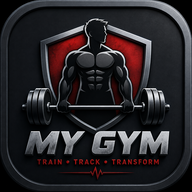
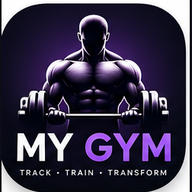
Add files via upload

diff --git a/styles.css b/styles.css
@@ -1798,3 +1798,218 @@ input,textarea,select{background:var(--input)!important;color:var(--text)!import
   background:#dff7ed !important;
   border-color:#9de3ca !important;
 }
+
+/* ===== SEPT 2026 GLOBAL LIGHT MODE CONTRAST FIX v17 =====
+   Intentionally broad: prevents white/transparent dark-theme text from surviving
+   inside light cards on Home, History, Calories, Profile, and Workout screens. */
+:root[data-theme="light"]{
+  color-scheme:light;
+}
+:root[data-theme="light"] .screen:not(#authScreen) .card,
+:root[data-theme="light"] .screen:not(#authScreen) .workout-card,
+:root[data-theme="light"] .screen:not(#authScreen) .exercise-summary-row,
+:root[data-theme="light"] .screen:not(#authScreen) .current-workout-summary,
+:root[data-theme="light"] .screen:not(#authScreen) .current-workout-chip{
+  color:#111827 !important;
+}
+:root[data-theme="light"] .screen:not(#authScreen) .card h1,
+:root[data-theme="light"] .screen:not(#authScreen) .card h2,
+:root[data-theme="light"] .screen:not(#authScreen) .card h3,
+:root[data-theme="light"] .screen:not(#authScreen) .card h4,
+:root[data-theme="light"] .screen:not(#authScreen) .card h5,
+:root[data-theme="light"] .screen:not(#authScreen) .card h6,
+:root[data-theme="light"] .screen:not(#authScreen) .card strong,
+:root[data-theme="light"] .screen:not(#authScreen) .workout-card h4,
+:root[data-theme="light"] .screen:not(#authScreen) .workout-card strong,
+:root[data-theme="light"] .screen:not(#authScreen) .exercise-summary-row strong,
+:root[data-theme="light"] #homeScreen h2,
+:root[data-theme="light"] #homeScreen h3,
+:root[data-theme="light"] #homeScreen h4,
+:root[data-theme="light"] #homeScreen strong{
+  color:#111827 !important;
+  -webkit-text-fill-color:#111827 !important;
+  opacity:1 !important;
+  text-shadow:none !important;
+}
+:root[data-theme="light"] .screen:not(#authScreen) .card p:not(.eyebrow),
+:root[data-theme="light"] .screen:not(#authScreen) .card small,
+:root[data-theme="light"] .screen:not(#authScreen) .card .mini,
+:root[data-theme="light"] .screen:not(#authScreen) .card .muted,
+:root[data-theme="light"] .screen:not(#authScreen) .workout-card .set-summary,
+:root[data-theme="light"] #homeScreen .muted,
+:root[data-theme="light"] #homeScreen .mini{
+  color:#526174 !important;
+  -webkit-text-fill-color:#526174 !important;
+  opacity:1 !important;
+  text-shadow:none !important;
+}
+/* Keep intentionally colored labels/buttons readable after the broad rule above. */
+:root[data-theme="light"] .primary,
+:root[data-theme="light"] .navbtn.active,
+:root[data-theme="light"] .history-tab.active,
+:root[data-theme="light"] .mode.active,
+:root[data-theme="light"] .theme-choice.active,
+:root[data-theme="light"] .progress-period-btn.active,
+:root[data-theme="light"] .pattern-chip:not(.muted-chip),
+:root[data-theme="light"] .calendar-day.workout-day,
+:root[data-theme="light"] .calendar-day.rest-day,
+:root[data-theme="light"] .calendar-day.missed-day{
+  color:#ffffff !important;
+  -webkit-text-fill-color:#ffffff !important;
+}
+:root[data-theme="light"] .finish-whole{
+  color:#06110e !important;
+  -webkit-text-fill-color:#06110e !important;
+}
+:root[data-theme="light"] .eyebrow{
+  color:#6d28d9 !important;
+  -webkit-text-fill-color:#6d28d9 !important;
+  opacity:1 !important;
+}
+:root[data-theme="light"] .pill,
+:root[data-theme="light"] .machine-badge,
+:root[data-theme="light"] .muted-chip{
+  color:#526174 !important;
+  -webkit-text-fill-color:#526174 !important;
+  opacity:1 !important;
+}
+
+/* =========================================================
+   MY GYM REALISTIC UI — V20
+   UI-only redesign. Firestore/data structure is unchanged.
+   ========================================================= */
+:root{
+  --mg-purple:#6d35f2;
+  --mg-purple-2:#8a44ff;
+  --mg-ink:#151426;
+  --mg-muted:#737b90;
+  --mg-surface:#ffffff;
+  --mg-page:#f6f7fb;
+  --mg-line:#e8eaf1;
+  --mg-shadow:0 12px 32px rgba(31,25,63,.08);
+}
+html{-webkit-text-size-adjust:100%;overscroll-behavior-y:none}
+body{background:#080b13}
+button,.round-step,.rep-step,.cardio-step,.mode,.navbtn{touch-action:manipulation;-webkit-user-select:none;user-select:none;-webkit-tap-highlight-color:transparent}
+
+/* New icon + brand */
+.brand{align-items:center}
+.brand-mark{overflow:hidden;padding:0;background:#0b0d16!important;border:1px solid #ffffff1c!important}
+.brand-mark img{width:100%;height:100%;object-fit:cover;display:block;border-radius:inherit}
+.brand-copy strong{font-weight:950;letter-spacing:.06em}
+
+/* Premium cards */
+.card,.auth-card,.modal-card{box-shadow:0 18px 45px rgba(0,0,0,.16)}
+.home-section-title{display:flex;justify-content:space-between;align-items:end;gap:14px;margin:24px 0 12px}
+.home-section-title h3{margin:3px 0 0;font-size:27px;letter-spacing:-.03em}
+.live-dot{display:inline-flex;align-items:center;gap:7px;font-size:11px;font-weight:850;color:#6edec0}
+.live-dot i{width:8px;height:8px;background:#53d7af;border-radius:50%;box-shadow:0 0 0 5px #53d7af14}
+.hero-card{background:linear-gradient(135deg,#6132e8 0%,#823ef4 58%,#9b50ff 100%);border:0;box-shadow:0 20px 45px #7435ef38}
+.hero-card .eyebrow,.hero-card .muted,.hero-card h2{color:white!important}.hero-card .muted{opacity:.82}
+.hero-card .primary{background:white;color:#5c2ad8;box-shadow:0 8px 18px #35116f38}
+.metric{position:relative;overflow:hidden}.metric:after{content:"";position:absolute;width:90px;height:90px;border-radius:50%;right:-35px;top:-30px;background:#783cff10}
+
+/* Realistic body-part cards */
+.category-grid{grid-template-columns:repeat(2,minmax(0,1fr));gap:14px}
+.category{position:relative;min-height:0;padding:0;overflow:hidden;border-radius:22px;background:#111723;border:1px solid #ffffff12;box-shadow:0 14px 30px #0002;transition:.18s ease}
+.category:active{transform:scale(.985)}
+.realistic-body-art{height:170px;overflow:hidden;background:#151823}
+.realistic-body-art img{width:100%;height:100%;object-fit:cover;display:block;transition:transform .25s ease}
+.category:hover .realistic-body-art img{transform:scale(1.025)}
+.category-copy{padding:15px 42px 16px 16px}.category-copy strong{font-size:20px;letter-spacing:-.02em}.category-copy span{display:block;margin-top:3px;color:#8f9aae}
+.category-arrow{position:absolute;right:16px;bottom:20px;width:28px;height:28px;border-radius:50%;display:grid;place-items:center;background:#ffffff0d;color:#ae9cff;font-size:24px}
+
+/* Realistic machine library */
+.exercise-grid{grid-template-columns:repeat(2,minmax(0,1fr));gap:14px}
+.exercise{position:relative;padding:0;overflow:hidden;border-radius:22px;min-height:0;background:#111723;border:1px solid #ffffff12;box-shadow:0 12px 28px #0002}
+.realistic-machine-art{height:165px;background:#f6f6f8;overflow:hidden}
+.realistic-machine-art img{width:100%;height:100%;object-fit:cover;display:block}
+.exercise-info{padding:13px 38px 15px 14px}.exercise-info strong{font-size:15px;line-height:1.15}.exercise-info span{display:block;margin-top:5px;font-size:10px;color:#8d98aa;line-height:1.25}
+.exercise-arrow{position:absolute;right:13px;bottom:17px;font-size:22px;color:#9a86ff}
+.exercise-view-head{margin-bottom:16px;display:flex;align-items:center;gap:15px}.exercise-view-head h2{margin:2px 0;font-size:30px;letter-spacing:-.04em}
+
+/* Active workout: feels like a native fitness app */
+.active-card{max-width:760px;border-radius:28px;padding:18px}
+.active-card>.row{align-items:flex-start}
+.active-card h2{font-size:30px;letter-spacing:-.04em;margin:4px 0}
+.active-exercise-visual{width:100%;height:250px;border-radius:22px;overflow:hidden;background:#f5f5f8;margin:16px 0 18px;border:1px solid #ffffff13;box-shadow:inset 0 0 0 1px #ffffff0a}
+.active-exercise-visual img{width:100%;height:100%;object-fit:contain;display:block;background:#f7f7f9}
+.weight-mode{padding:7px;border-radius:16px}.mode-toggle{width:100%}.mode{min-height:42px}
+.set-row{border-radius:20px!important}
+.round-step,.rep-step,.cardio-step{box-shadow:none!important;border:0!important;background:linear-gradient(145deg,#7640f3,#5c2bd8)!important;color:white!important}
+.round-step:active,.rep-step:active,.cardio-step:active{transform:scale(.92)!important}
+.weight-center,.rep-center,.cardio-center{font-variant-numeric:tabular-nums}
+.finish-exercise{min-height:54px;font-size:16px;border-radius:16px}
+
+/* Sticky active workout bar */
+.workout-top{backdrop-filter:blur(18px);-webkit-backdrop-filter:blur(18px);box-shadow:0 16px 35px #0003}
+.timer{font-variant-numeric:tabular-nums;font-size:14px;font-weight:900}
+.current-workout-summary{border-radius:22px!important}
+.current-workout-chip{border-radius:14px!important}
+
+/* Workout history cards */
+.workout-card{border-radius:23px;padding:18px;box-shadow:0 10px 28px #0001}
+.exercise-summary-row{border-radius:16px;padding:12px 14px}
+.workout-card h4{font-size:18px;letter-spacing:-.02em}
+
+/* Calendar + progress */
+.calendar-card{border-radius:26px}.calendar-day{border-radius:50%;aspect-ratio:1/1;font-weight:800}.calendar-day.workout-day{background:#1f9d67!important;color:white;border-color:#1f9d67!important}.calendar-day.rest-day{background:#4a8fe7!important;color:white;border-color:#4a8fe7!important}.calendar-day.missed-day{background:#e84f61!important;color:white;border-color:#e84f61!important}
+.calendar-day.workout-day:after,.calendar-day.rest-day:after,.calendar-day.missed-day:after{display:none}
+.chart-card,.progress-card{border-radius:22px!important}
+
+/* Bottom navigation: iPhone friendly */
+@media(max-width:650px){
+  .shell{width:100%;padding:12px 14px calc(102px + env(safe-area-inset-bottom));}
+  .topbar{margin-bottom:14px;padding:0 2px}.topbar-badge{display:none}
+  .brand-copy small{display:none}.brand-copy strong{font-size:18px}.brand-mark{width:42px;height:42px}
+  #appView{padding-bottom:4px}
+  .nav{position:fixed!important;left:12px;right:12px;bottom:calc(10px + env(safe-area-inset-bottom));z-index:95;width:auto!important;margin:0!important;padding:8px!important;border-radius:25px!important;background:rgba(255,255,255,.95)!important;border:1px solid #e7e9f0!important;box-shadow:0 14px 45px rgba(29,25,55,.17)!important;backdrop-filter:blur(18px);-webkit-backdrop-filter:blur(18px)}
+  .navbtn{height:58px;border-radius:18px!important;color:#737b90!important;font-size:12px!important;min-width:0!important;position:relative;padding-top:27px!important}
+  .navbtn:before{position:absolute;top:8px;left:50%;transform:translateX(-50%);font-size:18px;line-height:1}
+  .navbtn[data-screen="home"]:before{content:"⌂"}.navbtn[data-screen="history"]:before{content:"▣"}.navbtn[data-screen="calories"]:before{content:"◒"}.navbtn[data-screen="profile"]:before{content:"♙"}
+  .navbtn.active{background:linear-gradient(135deg,#6d35f2,#a23cff)!important;color:white!important;box-shadow:0 8px 20px #7839ee46}
+  .welcome{border-radius:22px;padding:16px}.welcome #logoutBtn{padding:9px 10px;font-size:11px}.profile-avatar-home{width:48px;height:48px}
+  .home-section-title{margin-top:18px}.home-section-title h3{font-size:24px}.live-dot{display:none}
+  .home-grid{grid-template-columns:repeat(3,1fr);gap:9px}.hero-card{grid-column:1/-1;min-height:210px;border-radius:25px}.metric{padding:14px 10px;border-radius:19px}.metric strong{font-size:26px;margin-top:8px}.metric small{font-size:9px}.metric .mini{font-size:9px}
+  .home-insight-grid{grid-template-columns:1fr!important}.daily-quote-card,.pattern-card{border-radius:23px}
+  .category-grid,.exercise-grid{grid-template-columns:repeat(2,minmax(0,1fr));gap:11px}
+  .realistic-body-art{height:145px}.category-copy{padding:12px 34px 13px 13px}.category-copy strong{font-size:17px}.category-copy span{font-size:10px}.category-arrow{right:11px;bottom:14px}
+  .realistic-machine-art{height:145px}.exercise-info strong{font-size:13px}.exercise-info span{font-size:9px}
+  .section-hero{padding:17px!important;border-radius:22px!important}.section-hero h2{font-size:28px!important}
+  .exercise-view-head{position:sticky;top:4px;z-index:30;background:rgba(246,247,251,.92);backdrop-filter:blur(14px);-webkit-backdrop-filter:blur(14px);padding:8px 0 10px;margin-bottom:10px}
+  .active-card{padding:15px;border-radius:24px}.active-card h2{font-size:25px}.active-exercise-visual{height:205px;border-radius:20px}
+  .workout-top{top:6px!important;border-radius:21px!important;padding:12px!important}.workout-top-actions{gap:7px}.finish-whole,.danger{min-height:42px;font-size:11px}
+  .set-row{padding:13px!important}.round-step,.rep-step{min-width:44px;min-height:44px}
+  .workout-card{padding:15px;border-radius:22px}.exercise-summary-row{padding:11px}
+}
+
+/* Light mode — intentionally high contrast everywhere */
+:root[data-theme="light"] body{background:var(--mg-page)!important;color:var(--mg-ink)!important}
+:root[data-theme="light"] .shell{color:var(--mg-ink)!important}
+:root[data-theme="light"] .card,
+:root[data-theme="light"] .auth-card,
+:root[data-theme="light"] .modal-card,
+:root[data-theme="light"] .workout-card,
+:root[data-theme="light"] .exercise-summary-row,
+:root[data-theme="light"] .current-workout-summary,
+:root[data-theme="light"] .current-workout-chip,
+:root[data-theme="light"] .set-row,
+:root[data-theme="light"] .weight-mode,
+:root[data-theme="light"] .selected-day,
+:root[data-theme="light"] .calendar-card{background:#fff!important;color:var(--mg-ink)!important;border-color:var(--mg-line)!important;box-shadow:var(--mg-shadow)!important}
+:root[data-theme="light"] .category,:root[data-theme="light"] .exercise{background:#fff!important;color:var(--mg-ink)!important;border-color:var(--mg-line)!important;box-shadow:var(--mg-shadow)!important}
+:root[data-theme="light"] .category strong,:root[data-theme="light"] .exercise strong,:root[data-theme="light"] .workout-card h4,:root[data-theme="light"] .exercise-summary-row strong,:root[data-theme="light"] .active-card h2,:root[data-theme="light"] h1,:root[data-theme="light"] h2,:root[data-theme="light"] h3,:root[data-theme="light"] h4{color:#171525!important}
+:root[data-theme="light"] .category span,:root[data-theme="light"] .exercise span,:root[data-theme="light"] .set-summary,:root[data-theme="light"] .muted,:root[data-theme="light"] .mini{color:#6e778c!important}
+:root[data-theme="light"] .exercise-summary-row{background:#f8f9fc!important}
+:root[data-theme="light"] .workout-top{background:rgba(255,255,255,.94)!important;color:#171525!important;border-color:#e6e8ef!important;box-shadow:0 14px 35px rgba(32,27,61,.12)!important}
+:root[data-theme="light"] .weight-center,:root[data-theme="light"] .rep-center,:root[data-theme="light"] .cardio-center{background:#f5f6fa!important;color:#171525!important;border-color:#dfe2ea!important;box-shadow:none!important}
+:root[data-theme="light"] input{background:#f7f8fb;color:#171525;border-color:#dfe2ea}
+:root[data-theme="light"] .secondary{background:#f3f4f8!important;color:#29263a!important;border-color:#e1e4ec!important}
+:root[data-theme="light"] .mode-toggle,:root[data-theme="light"] .tabs,:root[data-theme="light"] .history-tabs{background:#f1f2f6!important}
+:root[data-theme="light"] .mode,:root[data-theme="light"] .tab,:root[data-theme="light"] .history-tab{color:#737b8c!important}
+:root[data-theme="light"] .mode.active,:root[data-theme="light"] .tab.active,:root[data-theme="light"] .history-tab.active{background:#fff!important;color:#6330dd!important;box-shadow:0 5px 14px rgba(49,39,86,.09)!important}
+:root[data-theme="light"] .hero-card,:root[data-theme="light"] .hero-card h2,:root[data-theme="light"] .hero-card .muted,:root[data-theme="light"] .hero-card .eyebrow{color:#fff!important}
+:root[data-theme="light"] .category-arrow,:root[data-theme="light"] .exercise-arrow{color:#6d35f2!important}
+:root[data-theme="light"] .active-exercise-visual{border-color:#e6e8ef!important}
+:root[data-theme="light"] .eyebrow{color:#6d35f2!important}
+:root[data-theme="light"] .hero-card .eyebrow{color:#fff!important}

diff --git a/app.js b/app.js
@@ -159,6 +159,11 @@ document.addEventListener("visibilitychange",()=>{
 });
 window.addEventListener("pagehide",persistActiveWorkoutDraft);
 
+// iPhone: rapid taps on +/- should change values, not zoom the page.
+document.addEventListener("dblclick",event=>{
+  if(event.target.closest(".round-step,.rep-step,.cardio-step,.status-btn,.mode")) event.preventDefault();
+},{passive:false});
+
 
 function applyTheme(theme){
   currentTheme=theme==="light"?"light":"dark";
@@ -1244,6 +1249,31 @@ async function removeConnection(friendUid){
   }
 }
 
+
+function realisticCategoryImage(category){
+  const key=String(category||"Chest").toLowerCase();
+  return `assets/body-${key}.jpg`;
+}
+function realisticMachineImage(item,category){
+  if(category==="Cardio") return "assets/body-cardio.jpg";
+  const kind=machineKind(item?.name||"");
+  const map={
+    chestpress:"machine-chestpress", inclinepress:"machine-inclinepress", declinepress:"machine-inclinepress",
+    fly:"machine-fly", cablefly:"machine-fly", smith:"machine-chestpress", dumbbell:"machine-chestpress",
+    pulldown:"machine-pulldown", highrow:"machine-pulldown", pullup:"machine-pulldown",
+    row:"machine-row", backextension:"machine-row", shoulderpress:"machine-chestpress", lateral:"machine-row", reardelt:"machine-fly",
+    curl:"machine-row", triceps:"machine-pulldown", dip:"machine-chestpress",
+    legpress:"machine-legpress", hacksquat:"machine-legpress", legextension:"machine-legextension", legcurl:"machine-legcurl",
+    hipmachine:"machine-legextension", calf:"machine-legcurl", hipthrust:"machine-legpress",
+    abs:"machine-row", rotation:"machine-row", kneeraise:"machine-pulldown", plank:"machine-row",
+    treadmill:"body-cardio", stairs:"body-cardio", elliptical:"body-cardio", bike:"body-cardio", rower:"machine-row"
+  };
+  return `assets/${map[kind]||"machine-chestpress"}.jpg`;
+}
+function realisticExercisePicture(item,category,extraClass=""){
+  return `<div class="realistic-machine-art ${extraClass}"><img src="${realisticMachineImage(item,category)}" alt="${item?.name||category}" loading="lazy"></div>`;
+}
+
 function renderCategories(){
   const grid=$("categoryGrid");grid.innerHTML="";
   for(const [category,items] of Object.entries(EXERCISES)){
@@ -1251,11 +1281,12 @@ function renderCategories(){
     btn.className="category";
     btn.dataset.category=category;
     btn.innerHTML=`
-      <div class="category-art">${categoryArtwork(category)}</div>
+      <div class="category-art realistic-body-art"><img src="${realisticCategoryImage(category)}" alt="${category}" loading="lazy"></div>
       <div class="category-copy">
         <strong>${category}</strong>
         <span>${items.length} exercises</span>
-      </div>`;
+      </div>
+      <span class="category-arrow">›</span>`;
     btn.addEventListener("click",()=>openCategory(category));
     grid.appendChild(btn);
   }
@@ -1277,7 +1308,7 @@ function openCategory(category){
   const grid=$("exerciseGrid");grid.innerHTML="";
   EXERCISES[category].forEach(item=>{
     const btn=document.createElement("button");btn.className="exercise";
-    btn.dataset.category=category;btn.innerHTML=`${machineArtwork(item,category)}<div class="exercise-info"><strong>${item.name}</strong><span>${category} • ${item.type}${item.independent?" • Independent arms":""}</span></div>`;
+    btn.dataset.category=category;btn.innerHTML=`${realisticExercisePicture(item,category)}<div class="exercise-info"><strong>${item.name}</strong><span>${item.type}${item.independent?" • Independent arms":""}</span></div><span class="exercise-arrow">›</span>`;
     btn.addEventListener("click",()=>startExercise(category,item));
     grid.appendChild(btn);
   });
@@ -1393,6 +1424,10 @@ function renderActiveExercise(){
   $("categoryView").classList.add("hidden");$("exerciseView").classList.add("hidden");$("activeView").classList.remove("hidden");
   $("activeExerciseMeta").textContent=`${activeExercise.category.toUpperCase()} • ${activeExercise.type}`;
   $("activeExerciseName").textContent=activeExercise.name;
+  const activeVisual=$("activeExerciseVisual");
+  if(activeVisual){
+    activeVisual.innerHTML=`<img src="${realisticMachineImage({name:activeExercise.name},activeExercise.category)}" alt="${activeExercise.name}">`;
+  }
   $("weightModeWrap").classList.toggle("hidden",isCardioExercise()||!activeExercise.independent);
   $("perArmBtn").classList.toggle("active",activeExercise.weightMode==="perArm");
   $("totalBtn").classList.toggle("active",activeExercise.weightMode==="total");

diff --git a/index.html b/index.html
@@ -11,17 +11,13 @@
   <link rel="manifest" href="manifest.webmanifest">
   <link rel="apple-touch-icon" href="my-gym-icon-192.png">
   <link rel="icon" href="my-gym-icon-192.png" type="image/png">
-  <link rel="stylesheet" href="styles.css?v=stabilityfix16">
+  <link rel="stylesheet" href="styles.css?v=realistic20">
 </head>
 <body>
   <main class="shell">
     <header class="topbar">
       <div class="brand">
-        <span class="brand-mark" aria-hidden="true">
-          <svg viewBox="0 0 64 64">
-            <path d="M12 24h7v16h-7zM21 18h8v28h-8zM35 18h8v28h-8zM45 24h7v16h-7zM27 29h10v6H27z"/>
-          </svg>
-        </span>
+        <span class="brand-mark" aria-hidden="true"><img src="my-gym-icon-192.png" alt=""></span>
         <span class="brand-copy">
           <strong>MY GYM</strong>
           <small>TRAIN • TRACK • CONNECT</small>
@@ -209,6 +205,8 @@
               </div>
               <button id="removeCurrentExerciseBtn" class="danger">Remove</button>
             </div>
+
+            <div id="activeExerciseVisual" class="active-exercise-visual"></div>
 
             <div id="weightModeWrap" class="weight-mode hidden">
               <span>Weight mode</span>
@@ -647,6 +645,6 @@
 
   <script src="https://cdn.jsdelivr.net/npm/chart.js@4.4.7/dist/chart.umd.min.js"></script>
   <script src="ui.js?v=graphfinal11"></script>
-  <script type="module" src="app.js?v=stabilityfix16"></script>
+  <script type="module" src="app.js?v=realistic20"></script>
 </body>
 </html>
